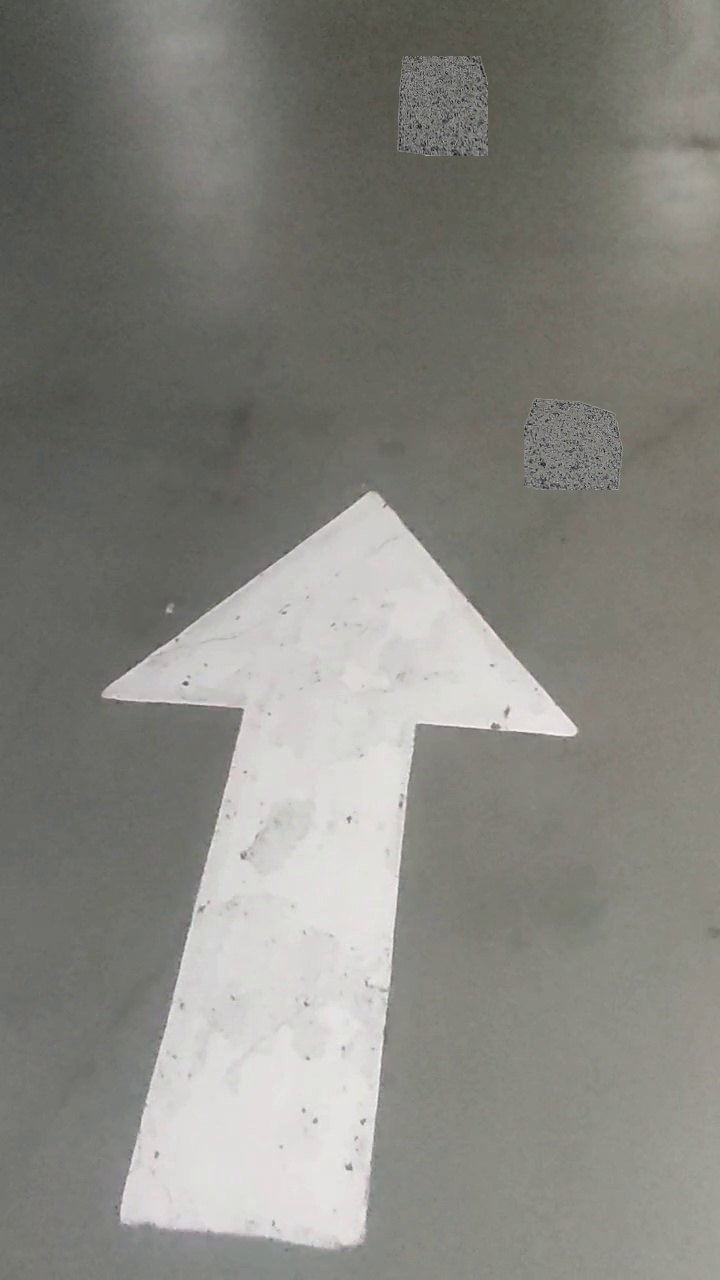
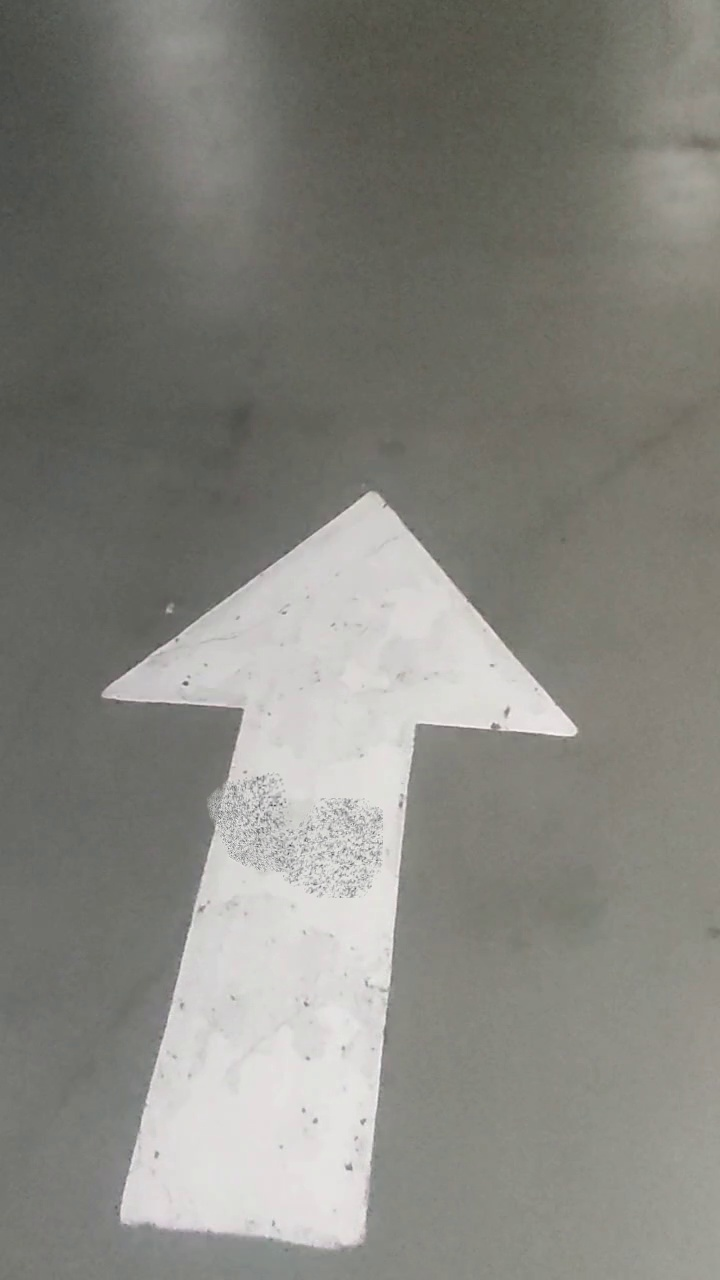
Fix bugs in YOLOv3 training script

Changed region(s): [[0.275, 0.5938, 0.55, 0.7188], [0.55, 0.0312, 0.7028, 0.125], [0.7333, 0.3125, 0.8861, 0.375]]

diff --git a/train_gan.py b/train_gan.py
@@ -114,9 +114,9 @@ epoch_transformation_params = None
 # 選擇列表中的第一張圖像進行處理
 base_image = base_images[0]  # 獲取單個圖像
 
-# 調整基底圖像尺寸以符合 YOLO 的要求
-base_image = letterbox(base_image)[0]  # 使用自定義 letterbox 函數進行調整
-base_image_tensor = base_image[:, :, ::-1].transpose(2, 0, 1)  # BGR to RGB, HWC to CHW
+# 調整基底圖像尺寸以符合 YOLO 的要求，並獲取縮放比例和填充
+base_image_resized, (scale, _), (dw, dh) = letterbox(base_image, new_shape=(416, 416))
+base_image_tensor = base_image_resized[:, :, ::-1].transpose(2, 0, 1)  # BGR to RGB, HWC to CHW
 base_image_tensor = (
     torch.from_numpy(base_image_tensor.copy()).float() / 255.0  # 標準化
 ).unsqueeze(0).to(device)  # 添加批次維度並移動到裝置
@@ -125,17 +125,28 @@ base_image_tensor = (
 pred = yolo_model(base_image_tensor)
 pred = non_max_suppression(pred)
 
-# 提取目標框 (x_min, y_min, x_max, y_max)
+# 提取目標框 (x_min, y_min, x_max, y_max) 並轉換回原始圖像尺寸
 target_boxes = []
 for det in pred:
     if len(det):
         for *xyxy, conf, cls in det:
-            if int(cls) == target_index:  # 僅選擇目標類別的框
+            if int(cls) == 2:  # 僅選擇目標類別的框(標誌)
                 x_min, y_min, x_max, y_max = map(int, xyxy)
-                target_boxes.append((x_min, y_min, x_max, y_max))
+                # 轉換回原始圖像尺寸
+                x_min_original = int((x_min - dw) / scale)
+                y_min_original = int((y_min - dh) / scale)
+                x_max_original = int((x_max - dw) / scale)
+                y_max_original = int((y_max - dh) / scale)
+
+                # 確保不超出原始圖像邊界
+                x_min_original = max(0, x_min_original)
+                y_min_original = max(0, y_min_original)
+                x_max_original = min(base_image.shape[1], x_max_original)
+                y_max_original = min(base_image.shape[0], y_max_original)
+
+                target_boxes.append((x_min_original, y_min_original, x_max_original, y_max_original))
 # 打印目標框，確認結果
 print("Target boxes:", target_boxes)
-
 
 with open(epoch_info_path, "w") as log_file:
     for epoch in range(num_epochs):
@@ -148,24 +159,24 @@ with open(epoch_info_path, "w") as log_file:
         epoch_attack_loss = 0.0
         num_batches = 0
         
-        # 在每個 epoch 開始時生成一次變換參數，並保持一致
-        if epoch_transformation_params is None:
-            epoch_transformation_params = []
-            for _ in range(batch_size // N):
-                base_image_sample = base_images[0]
-                patches_sample = [
-                    np.zeros((patch_size[1], patch_size[0], 3), dtype="uint8")  # 假設貼片大小為 patch_size
-                    for _ in range(N)
-                ]
-                _, params = eot(
-                    base_image_sample, 
-                    patches_sample, 
-                    patch_size=patch_size,
-                    gamma_range=(0.8, 1.2),
-                    max_rotation=30,
-                    max_perspective_shift=0.2
-                )
-                epoch_transformation_params.append(params)
+
+        epoch_transformation_params = []
+        for _ in range(batch_size // N):
+            base_image_sample = base_images[0]
+            patches_sample = [
+                np.zeros((patch_size[1], patch_size[0], 3), dtype="uint8")  # 假設貼片大小為 patch_size
+                for _ in range(N)
+            ]
+            _, params = eot(
+                base_image_sample, 
+                patches_sample, 
+                patch_size=patch_size,
+                gamma_range=(0.8, 1.2),
+                max_rotation=30,
+                max_perspective_shift=0.2,
+                target_boxes=target_boxes  # 使用目標方框
+            )
+            epoch_transformation_params.extend(params)  # 使用 extend 而不是 append
 
         for batch_idx in epoch_progress:
             # 分批次載入真實貼片
@@ -210,7 +221,7 @@ with open(epoch_info_path, "w") as log_file:
                         gamma_range=(0.8, 1.2),
                         max_rotation=30,
                         max_perspective_shift=0.2,
-                        transformation_params=None,  # 可選
+                        transformation_params=epoch_transformation_params,
                         target_boxes=target_boxes  # 傳入目標方框
                     )
                     transformed_image = letterbox(transformed_image)[0]
@@ -270,25 +281,17 @@ with open(epoch_info_path, "w") as log_file:
 
             # 貼片應用到基底圖像並保存
             for base_idx, base_image in enumerate(base_images[:3]):
-                # 第一次處理基底圖像時生成變換參數
-                if base_idx == 0:
-                    transformed_image, transformation_params = eot(
-                        base_image, 
-                        [(patch.cpu().permute(1, 2, 0).numpy() * 255).astype("uint8") for patch in final_generated_patches],
-                        patch_size=patch_size,
-                        gamma_range=(0.8, 1.2),
-                        max_rotation=30,
-                        max_perspective_shift=0.2
-                    )
-                else:
-                    # 使用固定的變換參數
-                    transformed_image, _ = eot(
-                        base_image,
-                        [(patch.cpu().permute(1, 2, 0).numpy() * 255).astype("uint8") for patch in final_generated_patches],
-                        patch_size=patch_size,
-                        transformation_params=transformation_params
-                    )
-
+                transformed_image, transformation_params = eot(
+                    base_image, 
+                    [(patch.cpu().permute(1, 2, 0).numpy() * 255).astype("uint8") for patch in final_generated_patches],
+                    patch_size=patch_size,
+                    gamma_range=(0.8, 1.2),
+                    max_rotation=30,
+                    max_perspective_shift=0.2,
+                    transformation_params=epoch_transformation_params,
+                    target_boxes=target_boxes  # 傳入目標方框
+                )
+                
                 # 保存生成的圖像
                 transformed_save_path = os.path.join("final_transformed_images", f"epoch_{epoch + 1}_base_{base_idx + 1}.png")
                 cv2.imwrite(transformed_save_path, transformed_image)

diff --git a/util/eot.py b/util/eot.py
@@ -98,6 +98,7 @@ def eot(base_image, patches, patch_size=(60, 60), gamma_range=(0.8, 1.2), max_ro
     return transformed_image, transformation_params
 
 
+
 if __name__ == "__main__":
     # 加載基底圖像
     base_image = cv2.imread("./base_dataset/33.jpg")
